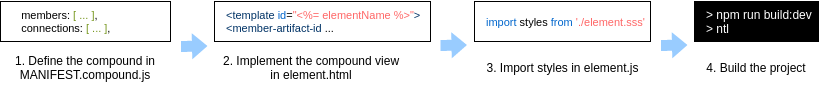
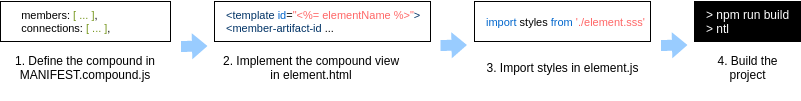
cubbles/cubbles#30 Fix build command in text

diff --git a/developing-coder-template/developing-elementaries.md b/developing-coder-template/developing-elementaries.md
@@ -95,4 +95,4 @@ After building your webpackage, the dist version of this file will have a workin
 
 ## Testing your elementary
 
-While developing your elementary, you can run the `npm run build:dev` command to build a developing dist version of your webpackage, and be able to run `SHOWROOM.html` file to watch your component working.
+While developing your elementary, you can run the `npm run build` command to build a developing dist version of your webpackage, and be able to run `SHOWROOM.html` file to watch your component working.

diff --git a/developing-coder-template/developing-compounds.md b/developing-coder-template/developing-compounds.md
@@ -71,4 +71,4 @@ After building your webpackage, the dist version of this file will have a workin
 
 ## Testing your compound
 
-While developing your compound, you can run the `npm run build:dev` command to build a developing dist version of your webpackage, and be able to run `SHOWROOM.html` file to watch your component working.
+While developing your compound, you can run the `npm run build` command to build a developing dist version of your webpackage, and be able to run `SHOWROOM.html` file to watch your component working.
